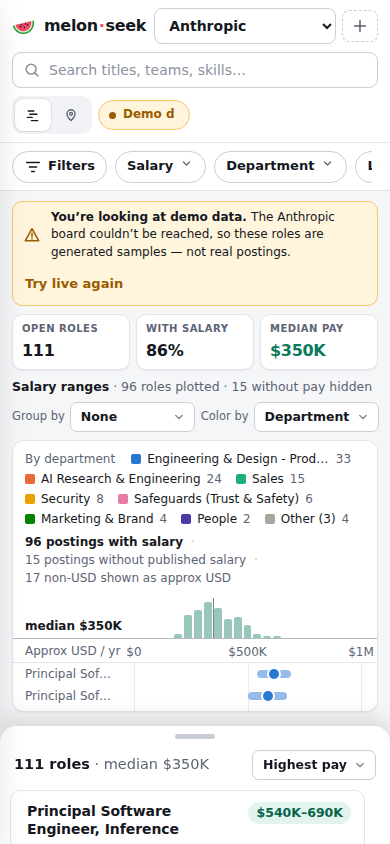
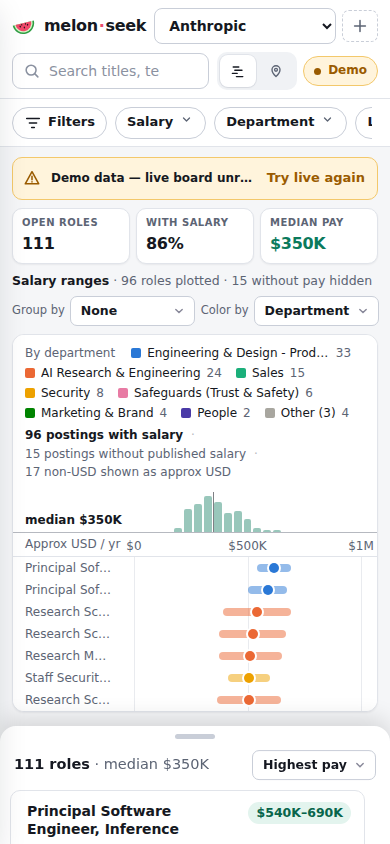
WIP: in-progress agent work
Claude-Session: https://claude.ai/code/session_014jaqot5Ddmi7Co6CofBiyc

diff --git a/test/sources.test.js b/test/sources.test.js
@@ -253,3 +253,22 @@ test('browser-bundled modules use no Node-only APIs', () => {
     assert.ok(!/(?<![.?\w])(process\.|Buffer\b|__dirname)/.test(code), `${f}: node global`);
   }
 });
+
+test('greenhouse pay_input_ranges -> structured salary (cents, tiers, hourly, fallback)', async () => {
+  mockFetch(() => jsonResponse(fixture('greenhouse-pay-ranges.json')));
+  const jobs = await fetchGreenhouse('andurilindustries');
+  assert.ok(calls[0].url.includes('content=true') && calls[0].url.includes('pay_transparency=true'));
+  const [tiers, hourly, none, mixed] = jobs;
+  // Several tiers: overall min and max of the tiers (structured beats the text range).
+  assert.deepEqual({ ...tiers.salary, text: undefined }, { min: 133000, max: 249000, currency: 'USD', interval: 'year', text: undefined });
+  assert.match(tiers.salary.text, /133,000–249,000 USD \(3 ranges\)/);
+  // Interval comes from title/blurb only.
+  assert.deepEqual([hourly.salary.min, hourly.salary.max, hourly.salary.interval], [28, 36, 'hour']);
+  assert.equal(toJobSalary(hourly.salary).min, 28 * 2080);
+  // Empty ranges -> null here; normalize falls back to parsing the text.
+  assert.equal(none.salary, null);
+  const parsed = parseSalary(none.text);
+  assert.deepEqual([parsed.min, parsed.max, parsed.currency], [90000, 115000, 'GBP']);
+  // Ranges in another currency than the first are not mixed in.
+  assert.deepEqual([mixed.salary.min, mixed.salary.max, mixed.salary.currency], [180000, 220000, 'AUD']);
+});

diff --git a/README.md b/README.md
@@ -63,7 +63,7 @@ posting.
 ### Snapshots
 
 ```sh
-npm run snapshot                              # built-in companies
+npm run snapshot                              # every built-in in server/companies.js
 npm run snapshot -- anthropic anduril openai  # explicit list
 npm run snapshot -- lever:acme                # custom board as <source>:<board>
 ```
@@ -123,13 +123,19 @@ allow cross-origin requests when the board API permits them:
 - **Greenhouse** is built for client-side use, so live fetches are attempted.
 - **Ashby** is attempted too, but its API is reported not to allow cross-origin
   requests.
-- **Lever** is skipped. Lever's docs say its postings API refuses cross-origin
-  requests from third-party sites.
+- **Lever** is attempted. Its docs say cross-origin requests from other sites
+  aren't supported, though it currently returns `Access-Control-Allow-Origin: *`.
+  Because that failure is expected, a Lever board whose live fetch is blocked
+  falls back to the bundled snapshot **without an error banner**.
 
-When a live fetch fails, the bundled snapshot is shown. The
-[`pages` workflow](.github/workflows/pages.yml) refreshes the snapshots before
-every build. It runs on pushes to `main` and `claude/stoic-ride-54ddxp`, on
-manual dispatch, and daily.
+When a live fetch fails, the bundled snapshot is shown. After a network or CORS
+failure, that source isn't retried for the rest of the session unless you click
+Refresh. Demo fallbacks always show why they're demo data.
+
+The [`pages` workflow](.github/workflows/pages.yml) refreshes the snapshots for
+every built-in company in `server/companies.js` before each build. It runs on
+pushes to `main` and `claude/stoic-ride-54ddxp`, on manual dispatch, and
+daily.
 
 Preview locally by serving `dist/` under the same sub-path, so relative URLs
 resolve the way they do on Pages.

diff --git a/docs/ADDING_A_BOARD.md b/docs/ADDING_A_BOARD.md
@@ -54,8 +54,10 @@ npm test
 npm run snapshot -- acme    # optional: commit data/snapshots/acme.json
 ```
 
-and add `acme` to the `npm run snapshot` line in
-`.github/workflows/snapshot.yml` so it's refreshed daily.
+Nothing else needs to change. The `snapshot` and `pages` workflows run
+`npm run snapshot` with no arguments, which covers every built-in. The static
+build (`npm run build`) also bundles `api/jobs/<slug>.json` for every company
+that `server/companies.js` returns.
 
 ## 3. A new source adapter
 
